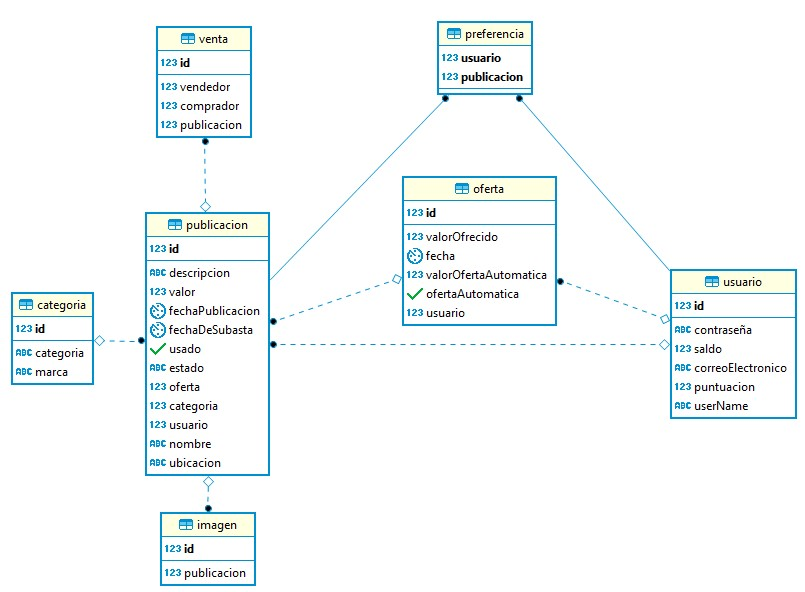
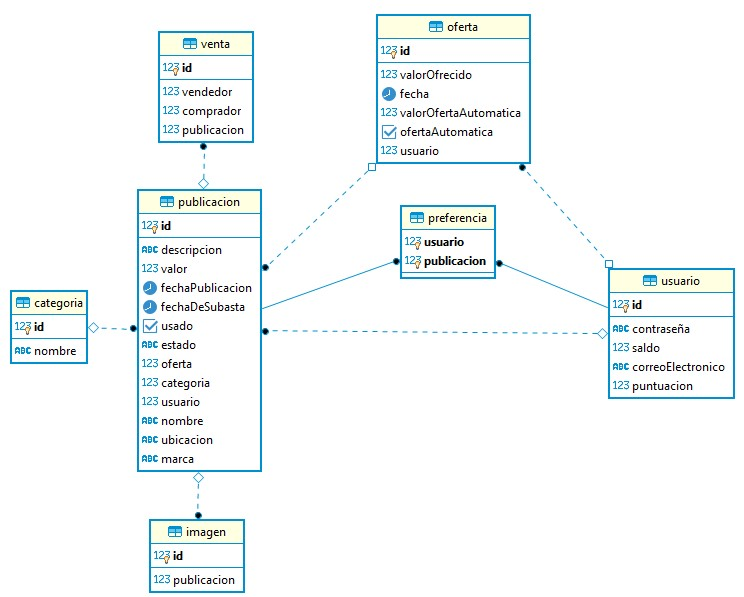
Usuario

diff --git a/src/main/java/edu/escuelaing/arsw/auctions/controllers/UsuarioController.java b/src/main/java/edu/escuelaing/arsw/auctions/controllers/UsuarioController.java
@@ -36,8 +36,8 @@ public class UsuarioController {
 	  
 
 	    
-	    @RequestMapping(path = "/{userName}", method = RequestMethod.GET)
-	    public ResponseEntity<?> getUsuario(@PathVariable(name = "userName") int id) {
+	    @RequestMapping(path = "/{id}", method = RequestMethod.GET)
+	    public ResponseEntity<?> getUsuario(@PathVariable(name = "id") int id) {
 	        try {
 	            Usuario usuario = user.getUsuario(id);
 	            return new ResponseEntity<>(usuario, HttpStatus.ACCEPTED);
@@ -46,30 +46,35 @@ public class UsuarioController {
 	        	ex.printStackTrace(System.out);
 	            return new ResponseEntity<>("400 bad requestrr", HttpStatus.NOT_FOUND);
 	        }
-	    }  
+	    }
 
 	  
 	
-	 /*@GetMapping(path = "/{usuarioEmail}")
-	    public ResponseEntity<?> getUserByEmail(@PathVariable("usuario") String correoElectronico){
-	        
-	        try{
-	            return new ResponseEntity<>(user,HttpStatus.ACCEPTED);
-	        }catch (Exception ex){
-	            return new ResponseEntity<>(ex.getMessage(),HttpStatus.NOT_FOUND);
-	        }
-	    }*/
-	 
-	 @RequestMapping(method = RequestMethod.POST)	
-	    public ResponseEntity<?> manejadorPostRecursoUsuario(@RequestBody Usuario usuario){	        
+	    @RequestMapping(value = "/{id}/{saldo}", method = RequestMethod.GET)
+	    public ResponseEntity<?> setSaldo(@PathVariable(name="id") int id,@PathVariable(name="saldo") int saldo) {
 	        try {
-	            user.addUser(usuario);
-	            return new ResponseEntity<>(HttpStatus.CREATED);
-	        } catch (Exception ex) {
-	            return new ResponseEntity<>(ex.getMessage(),HttpStatus.FORBIDDEN);            
-	        }        
+	            user.setSaldo(id,saldo);
+	            return new ResponseEntity<>(HttpStatus.ACCEPTED);
 
-	    }
+	        } catch (Exception ex) {
+	        	ex.printStackTrace(System.out);
+	            return new ResponseEntity<>("400 bad requestrr", HttpStatus.NOT_FOUND);
+	        }
+	    } 
+	 
+	    
+	 
+	    @RequestMapping(value = "getSaldo/{id}", method = RequestMethod.GET)
+	    public ResponseEntity<?> getSaldo(@PathVariable(name="id") int id){
+	        try {
+	            int saldo = user.getSaldo(id);
+	            return new ResponseEntity<>(saldo, HttpStatus.ACCEPTED);
+
+	        } catch (Exception ex) {
+	        	ex.printStackTrace(System.out);
+	            return new ResponseEntity<>("400 bad requestrr", HttpStatus.NOT_FOUND);
+	        }
+	    } 
 	 
 
 

diff --git a/src/main/java/edu/escuelaing/arsw/auctions/services/impl/UsuarioServiceImpl.java b/src/main/java/edu/escuelaing/arsw/auctions/services/impl/UsuarioServiceImpl.java
@@ -3,7 +3,6 @@ package edu.escuelaing.arsw.auctions.services.impl;
 import java.util.List;
 
 import org.springframework.beans.factory.annotation.Autowired;
-import org.springframework.beans.factory.annotation.Qualifier;
 import org.springframework.stereotype.Service;
 
 import edu.escuelaing.arsw.auctions.Repository.UsuarioRepository;
@@ -17,55 +16,34 @@ public class UsuarioServiceImpl implements UsuarioServices {
 	
 	@Autowired
 	private UsuarioRepository userRepo;
-
-	@Override
-	public Usuario addUser(Usuario user) throws AuctionPersistanceException {
-		// TODO Auto-generated method stub
-		return null;
-	}
-
-	@Override
-	public Usuario addSaldo(Usuario Saldo) throws AuctionPersistanceException {
-		// TODO Auto-generated method stub
-		return null;
-	}
-
-	@Override
-	public void saveUser(Usuario usuario) throws AuctionPersistanceException {
-		// TODO Auto-generated method stub
-		
-	}
-
-	@Override
-	public Usuario findUserByEmail(String correoElectronico) throws AuctionPersistanceException {
-		// TODO Auto-generated method stub
-		return null;
-	}
-
+	
 	@Override
 	public List<Usuario> getAllUsers() {
-		// TODO Auto-generated method stub
-		return null;
+		System.out.println(userRepo.findAll());
+		return userRepo.findAll();
 	}
-
+	
 	@Override
 	public Usuario getUsuario(int id) throws AuctionNotFoundException {
 		System.out.println(id + "--------");
 		Usuario usuario = userRepo.findById(id).get();
 		if (usuario==null) System.out.println(id + "<--------");
 		return usuario;
-	}
+	}	
 
 	@Override
-	public Usuario getSaldo(String userName) throws AuctionNotFoundException {
-		// TODO Auto-generated method stub
-		return null;
-	}
-
-	@Override
-	public void updateSaldo(int saldo, Usuario usuario) throws AuctionPersistanceException {
-		// TODO Auto-generated method stub
+	public void addUser(Usuario user) throws AuctionPersistanceException {
 		
+	}
+
+	@Override
+	public void setSaldo(int id, int saldo) throws AuctionPersistanceException {
+		userRepo.setSaldo(id,saldo);
+	}	
+
+	@Override
+	public int getSaldo(int id) throws AuctionNotFoundException {
+		return userRepo.getSaldo(id);
 	}
 
 }

diff --git a/src/main/java/edu/escuelaing/arsw/auctions/services/UsuarioServices.java b/src/main/java/edu/escuelaing/arsw/auctions/services/UsuarioServices.java
@@ -7,21 +7,17 @@ import edu.escuelaing.arsw.auctions.persistance.*;
 
 public interface UsuarioServices {
 	
-	    public Usuario addUser(Usuario user) throws AuctionPersistanceException;
+	public List<Usuario> getAllUsers();
+	
+	public Usuario getUsuario(int id) throws AuctionNotFoundException;
+	
+	//Se puede elimar???
+	public void addUser(Usuario user) throws AuctionPersistanceException;
 	    
-	    public Usuario addSaldo(Usuario Saldo) throws AuctionPersistanceException;
+	public void setSaldo(int id, int saldo) throws AuctionPersistanceException;
 	    
-	    void saveUser(Usuario usuario) throws AuctionPersistanceException;
+	public int getSaldo(int id) throws AuctionNotFoundException;
 	    
-	    Usuario findUserByEmail(String correoElectronico) throws AuctionPersistanceException;
-	    
-	    public List<Usuario> getAllUsers();
-	   
-	    public Usuario getUsuario(int id) throws AuctionNotFoundException;
-	    
-	    public Usuario getSaldo(String userName) throws AuctionNotFoundException;
-	    
-	    void updateSaldo(int saldo, Usuario usuario) throws AuctionPersistanceException;
-	}
+}
 
 

diff --git a/src/main/java/edu/escuelaing/arsw/auctions/Repository/impl/UsuarioRepositoryImpl.java b/src/main/java/edu/escuelaing/arsw/auctions/Repository/impl/UsuarioRepositoryImpl.java
@@ -1,0 +1,33 @@
+package edu.escuelaing.arsw.auctions.Repository.impl;
+
+import javax.persistence.EntityManager;
+import javax.persistence.PersistenceContext;
+import javax.persistence.Query;
+
+import edu.escuelaing.arsw.auctions.Repository.custom.UsuarioRepositoryCustom;
+import edu.escuelaing.arsw.auctions.model.Usuario;
+
+public class UsuarioRepositoryImpl implements UsuarioRepositoryCustom {
+	
+	@PersistenceContext
+    EntityManager entityManager;
+
+	@Override
+	public void setSaldo(int id, int saldo) {
+		 Query query = entityManager.createNativeQuery("update usuario set saldo=? where id=?",Usuario.class);
+		 
+		 query.setParameter(1, saldo )
+              .setParameter(2, id ).executeUpdate();
+
+	}
+
+	@Override
+	public int getSaldo(int id) {
+		Query query = entityManager.createQuery("select Saldo from usuario where id=:ID");
+		query.setParameter("ID", id);
+		
+		return query.getFirstResult();
+		
+	}
+	
+}

diff --git a/src/main/java/edu/escuelaing/arsw/auctions/model/Categoria.java b/src/main/java/edu/escuelaing/arsw/auctions/model/Categoria.java
@@ -16,10 +16,7 @@ public class Categoria implements Serializable{
     	private int Id;
         
         @Column(name="categoria")
-        private String Categoria; 
-        
-        @Column(name="marca")
-        private String Marca;     
+        private String Categoria;    
         
         public int getId() {
     		return Id;
@@ -35,14 +32,6 @@ public class Categoria implements Serializable{
 
 	public void setCategoria(String Categoria) {
 		this.Categoria = Categoria;
-	}
-	
-	public String getMarca() {
-		return Marca;
-	}
-
-	public void setMarca(String Marca) {
-		this.Marca = Marca;
 	}
 	
 }

diff --git a/src/main/java/edu/escuelaing/arsw/auctions/Repository/UsuarioRepository.java b/src/main/java/edu/escuelaing/arsw/auctions/Repository/UsuarioRepository.java
@@ -2,7 +2,7 @@ package edu.escuelaing.arsw.auctions.Repository;
 
 import org.springframework.stereotype.Repository;
 
-
+import edu.escuelaing.arsw.auctions.Repository.custom.UsuarioRepositoryCustom;
 import edu.escuelaing.arsw.auctions.model.Usuario;
 
 
@@ -10,6 +10,6 @@ import edu.escuelaing.arsw.auctions.model.Usuario;
 import org.springframework.data.jpa.repository.JpaRepository;
 
 @Repository
-public interface UsuarioRepository extends JpaRepository<Usuario, Integer>{
+public interface UsuarioRepository extends JpaRepository<Usuario, Integer>, UsuarioRepositoryCustom{
 
 }

diff --git a/src/main/java/edu/escuelaing/arsw/auctions/Repository/custom/UsuarioRepositoryCustom.java b/src/main/java/edu/escuelaing/arsw/auctions/Repository/custom/UsuarioRepositoryCustom.java
@@ -1,0 +1,13 @@
+package edu.escuelaing.arsw.auctions.Repository.custom;
+
+import javax.transaction.Transactional;
+
+public interface UsuarioRepositoryCustom {
+	
+	@Transactional
+    public void setSaldo(int id, int saldo);
+	
+	@Transactional
+    public int getSaldo(int id);
+
+}

diff --git a/src/main/java/edu/escuelaing/arsw/auctions/model/Publicacion.java b/src/main/java/edu/escuelaing/arsw/auctions/model/Publicacion.java
@@ -46,6 +46,9 @@ public class Publicacion implements Serializable{
         @Column(name="ubicacion")
         String Ubicacion;
         
+        @Column(name="marca")
+        String marca;
+        
         public int getID() {
 			return ID;
 		}
